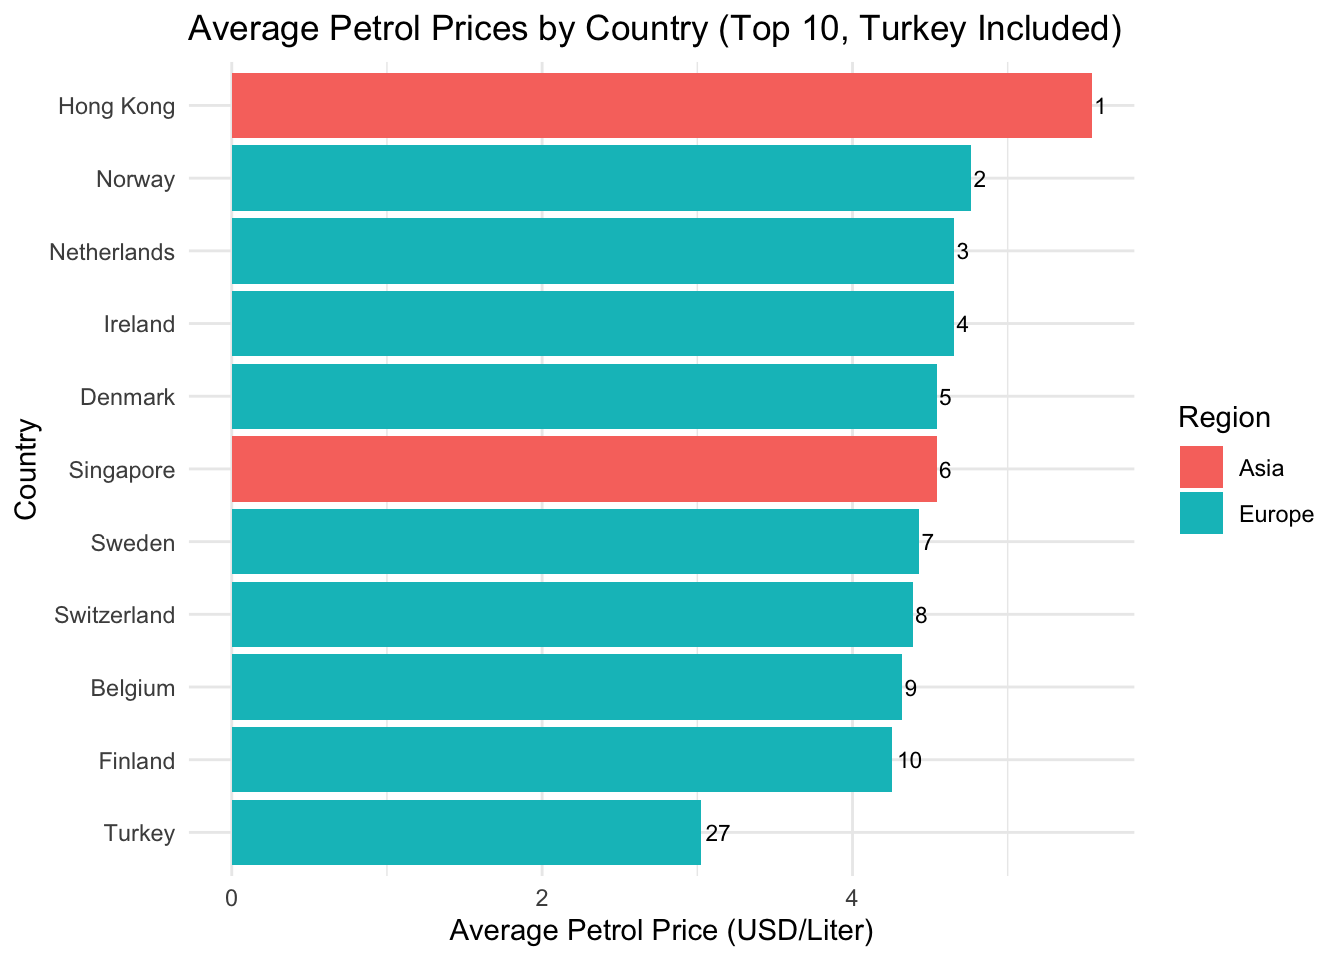
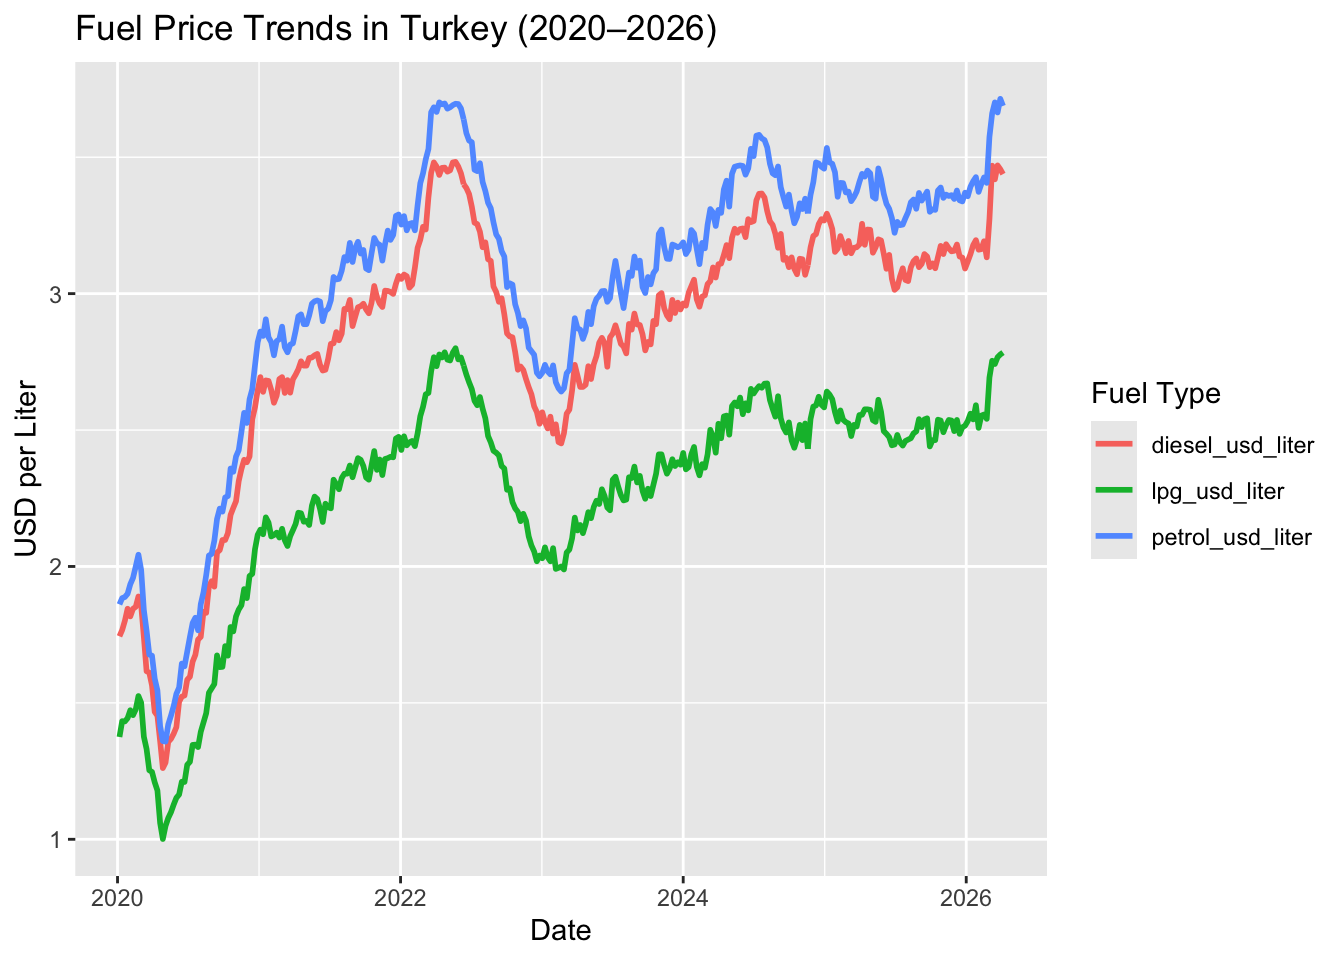
son

diff --git a/docs/project.html b/docs/project.html
@@ -397,10 +397,11 @@ pre > code.sourceCode > span > a:first-child::before { text-decoration: underlin
 <p>Global Fuel Prices &amp; Economic Indicators (2020-2026)&nbsp;</p>
 <p>The global energy landscape has faced significant volatility between 2020 and 2026. This dataset provides a standardized, weekly record of retail fuel prices across 84 countries, aligned with global crude oil benchmarks and national fiscal indicators. It serves as a unified resource for analyzing the relationship between international commodity markets and local retail costs.</p>
 <div class="cell">
-<div class="code-copy-outer-scaffold"><div class="sourceCode cell-code" id="cb1"><pre class="sourceCode r code-with-copy"><code class="sourceCode r"><span id="cb1-1"><a href="#cb1-1" aria-hidden="true" tabindex="-1"></a>global_fuel_prices<span class="ot">&lt;-</span><span class="fu">read.csv</span>(<span class="st">"/Users/seymasezer/Desktop/emu660-spring2026-seymasezery/global_fuel_prices_2020_2026.csv"</span>)</span></code></pre></div><button title="Copy to Clipboard" class="code-copy-button"><i class="bi"></i></button></div>
-</div>
-<div class="cell">
-<div class="code-copy-outer-scaffold"><div class="sourceCode cell-code" id="cb2"><pre class="sourceCode r code-with-copy"><code class="sourceCode r"><span id="cb2-1"><a href="#cb2-1" aria-hidden="true" tabindex="-1"></a><span class="fu">head</span>(global_fuel_prices)</span></code></pre></div><button title="Copy to Clipboard" class="code-copy-button"><i class="bi"></i></button></div>
+<details class="code-fold">
+<summary>Show Code</summary>
+<div class="code-copy-outer-scaffold"><div class="sourceCode cell-code" id="cb1"><pre class="sourceCode r code-with-copy"><code class="sourceCode r"><span id="cb1-1"><a href="#cb1-1" aria-hidden="true" tabindex="-1"></a>global_fuel_prices<span class="ot">&lt;-</span><span class="fu">read.csv</span>(<span class="st">"/Users/seymasezer/Desktop/emu660-spring2026-seymasezery/global_fuel_prices_2020_2026.csv"</span>)</span>
+<span id="cb1-2"><a href="#cb1-2" aria-hidden="true" tabindex="-1"></a><span class="fu">head</span>(global_fuel_prices)</span></code></pre></div><button title="Copy to Clipboard" class="code-copy-button"><i class="bi"></i></button></div>
+</details>
 <div class="cell-output cell-output-stdout">
 <pre><code>        date       country        region income_level subsidy_level
 1 2020-01-06 United States North America         High           Low
@@ -432,10 +433,10 @@ pre > code.sourceCode > span > a:first-child::before { text-decoration: underlin
 <section id="general-information-about-data" class="level2">
 <h2 class="anchored" data-anchor-id="general-information-about-data">2.2 General Information About Data</h2>
 <p>This dataset contains 27468 observations tracking the prices of Petrol, Diesel, and LPG. Each entry is enriched with regional, economic, and policy-level metadata to provide a holistic view of the global fuel economy.</p>
-<p>**Temporal Coverage:** Weekly data from January 2020 to April 2026.&nbsp;</p>
-<p>**Global Scale:** 84 countries across 7 geographic regions.</p>
-<p>**Economic Context:** Integrated Brent Crude benchmarks, tax percentages, and subsidy levels.&nbsp;</p>
-<p>**Normalization:** All pricing data is standardized to USD per Liter.</p>
+<p><strong>Temporal Coverage:</strong> Weekly data from January 2020 to April 2026.&nbsp;</p>
+<p><strong>Global Scale:</strong> 84 countries across 7 geographic regions.</p>
+<p>E<strong>conomic Context:</strong> Integrated Brent Crude benchmarks, tax percentages, and subsidy levels.&nbsp;</p>
+<p><strong>Normalization:</strong> All pricing data is standardized to USD per Liter.</p>
 </section>
 <section id="reason-of-choice" class="level2">
 <h2 class="anchored" data-anchor-id="reason-of-choice">2.3 Reason of Choice</h2>
@@ -448,11 +449,13 @@ pre > code.sourceCode > span > a:first-child::before { text-decoration: underlin
 </section>
 <section id="analysis" class="level1">
 <h1>3. Analysis</h1>
-<p>xxxxxx</p>
 <section id="exploratory-data-analysis" class="level2">
 <h2 class="anchored" data-anchor-id="exploratory-data-analysis">3.1 Exploratory Data Analysis</h2>
 <div class="cell">
-<div class="code-copy-outer-scaffold"><div class="sourceCode cell-code" id="cb4"><pre class="sourceCode r code-with-copy"><code class="sourceCode r"><span id="cb4-1"><a href="#cb4-1" aria-hidden="true" tabindex="-1"></a><span class="fu">library</span>(tidyverse)</span></code></pre></div><button title="Copy to Clipboard" class="code-copy-button"><i class="bi"></i></button></div>
+<details class="code-fold">
+<summary>Show Code</summary>
+<div class="code-copy-outer-scaffold"><div class="sourceCode cell-code" id="cb3"><pre class="sourceCode r code-with-copy"><code class="sourceCode r"><span id="cb3-1"><a href="#cb3-1" aria-hidden="true" tabindex="-1"></a><span class="fu">library</span>(tidyverse)</span></code></pre></div><button title="Copy to Clipboard" class="code-copy-button"><i class="bi"></i></button></div>
+</details>
 <div class="cell-output cell-output-stderr">
 <pre><code>── Attaching core tidyverse packages ──────────────────────── tidyverse 2.0.0 ──
 ✔ dplyr     1.2.1     ✔ readr     2.2.0
@@ -465,34 +468,37 @@ pre > code.sourceCode > span > a:first-child::before { text-decoration: underlin
 ✖ dplyr::lag()    masks stats::lag()
 ℹ Use the conflicted package (&lt;http://conflicted.r-lib.org/&gt;) to force all conflicts to become errors</code></pre>
 </div>
-<div class="code-copy-outer-scaffold"><div class="sourceCode cell-code" id="cb6"><pre class="sourceCode r code-with-copy"><code class="sourceCode r"><span id="cb6-1"><a href="#cb6-1" aria-hidden="true" tabindex="-1"></a><span class="fu">library</span>(dplyr)</span>
-<span id="cb6-2"><a href="#cb6-2" aria-hidden="true" tabindex="-1"></a><span class="fu">library</span>(ggplot2)</span>
-<span id="cb6-3"><a href="#cb6-3" aria-hidden="true" tabindex="-1"></a>df_rank <span class="ot">&lt;-</span> global_fuel_prices <span class="sc">|&gt;</span></span>
-<span id="cb6-4"><a href="#cb6-4" aria-hidden="true" tabindex="-1"></a><span class="fu">group_by</span>(country, region) <span class="sc">|&gt;</span></span>
-<span id="cb6-5"><a href="#cb6-5" aria-hidden="true" tabindex="-1"></a><span class="fu">summarise</span>(<span class="at">avg_petrol =</span> <span class="fu">mean</span>(petrol_usd_liter, <span class="at">na.rm =</span> <span class="cn">TRUE</span>),</span>
-<span id="cb6-6"><a href="#cb6-6" aria-hidden="true" tabindex="-1"></a><span class="at">.groups =</span> <span class="st">"drop"</span>) <span class="sc">|&gt;</span></span>
-<span id="cb6-7"><a href="#cb6-7" aria-hidden="true" tabindex="-1"></a><span class="fu">arrange</span>(<span class="fu">desc</span>(avg_petrol)) <span class="sc">|&gt;</span></span>
-<span id="cb6-8"><a href="#cb6-8" aria-hidden="true" tabindex="-1"></a><span class="fu">mutate</span>(<span class="at">rank =</span> <span class="fu">row_number</span>())</span>
-<span id="cb6-9"><a href="#cb6-9" aria-hidden="true" tabindex="-1"></a>top10_plus_tr <span class="ot">&lt;-</span> df_rank <span class="sc">|&gt;</span></span>
-<span id="cb6-10"><a href="#cb6-10" aria-hidden="true" tabindex="-1"></a><span class="fu">filter</span>(rank <span class="sc">&lt;=</span> <span class="dv">10</span> <span class="sc">|</span> country <span class="sc">==</span> <span class="st">"Turkey"</span>)</span>
-<span id="cb6-11"><a href="#cb6-11" aria-hidden="true" tabindex="-1"></a><span class="fu">ggplot</span>(top10_plus_tr,</span>
-<span id="cb6-12"><a href="#cb6-12" aria-hidden="true" tabindex="-1"></a><span class="fu">aes</span>(<span class="at">x =</span> <span class="fu">reorder</span>(country, avg_petrol),</span>
-<span id="cb6-13"><a href="#cb6-13" aria-hidden="true" tabindex="-1"></a><span class="at">y =</span> avg_petrol,</span>
-<span id="cb6-14"><a href="#cb6-14" aria-hidden="true" tabindex="-1"></a><span class="at">fill =</span> region)) <span class="sc">+</span></span>
-<span id="cb6-15"><a href="#cb6-15" aria-hidden="true" tabindex="-1"></a><span class="fu">geom_col</span>() <span class="sc">+</span></span>
-<span id="cb6-16"><a href="#cb6-16" aria-hidden="true" tabindex="-1"></a><span class="fu">coord_flip</span>() <span class="sc">+</span></span>
-<span id="cb6-17"><a href="#cb6-17" aria-hidden="true" tabindex="-1"></a><span class="fu">geom_text</span>(<span class="fu">aes</span>(<span class="at">label =</span> rank),</span>
-<span id="cb6-18"><a href="#cb6-18" aria-hidden="true" tabindex="-1"></a><span class="at">hjust =</span> <span class="sc">-</span><span class="fl">0.2</span>,</span>
-<span id="cb6-19"><a href="#cb6-19" aria-hidden="true" tabindex="-1"></a><span class="at">size =</span> <span class="dv">3</span>) <span class="sc">+</span></span>
-<span id="cb6-20"><a href="#cb6-20" aria-hidden="true" tabindex="-1"></a><span class="fu">labs</span>(<span class="at">title =</span> <span class="st">"Average Petrol Prices by Country (Top 10, Turkey Included)"</span>,</span>
-<span id="cb6-21"><a href="#cb6-21" aria-hidden="true" tabindex="-1"></a><span class="at">x =</span> <span class="st">"Country"</span>,</span>
-<span id="cb6-22"><a href="#cb6-22" aria-hidden="true" tabindex="-1"></a><span class="at">y =</span> <span class="st">"Average Petrol Price (USD/Liter)"</span>,</span>
-<span id="cb6-23"><a href="#cb6-23" aria-hidden="true" tabindex="-1"></a><span class="at">fill =</span> <span class="st">"Region"</span>) <span class="sc">+</span></span>
-<span id="cb6-24"><a href="#cb6-24" aria-hidden="true" tabindex="-1"></a><span class="fu">theme_minimal</span>()</span></code></pre></div><button title="Copy to Clipboard" class="code-copy-button"><i class="bi"></i></button></div>
+<details class="code-fold">
+<summary>Show Code</summary>
+<div class="code-copy-outer-scaffold"><div class="sourceCode cell-code" id="cb5"><pre class="sourceCode r code-with-copy"><code class="sourceCode r"><span id="cb5-1"><a href="#cb5-1" aria-hidden="true" tabindex="-1"></a><span class="fu">library</span>(dplyr)</span>
+<span id="cb5-2"><a href="#cb5-2" aria-hidden="true" tabindex="-1"></a><span class="fu">library</span>(ggplot2)</span>
+<span id="cb5-3"><a href="#cb5-3" aria-hidden="true" tabindex="-1"></a>df_rank <span class="ot">&lt;-</span> global_fuel_prices <span class="sc">|&gt;</span></span>
+<span id="cb5-4"><a href="#cb5-4" aria-hidden="true" tabindex="-1"></a><span class="fu">group_by</span>(country, region) <span class="sc">|&gt;</span></span>
+<span id="cb5-5"><a href="#cb5-5" aria-hidden="true" tabindex="-1"></a><span class="fu">summarise</span>(<span class="at">avg_petrol =</span> <span class="fu">mean</span>(petrol_usd_liter, <span class="at">na.rm =</span> <span class="cn">TRUE</span>),</span>
+<span id="cb5-6"><a href="#cb5-6" aria-hidden="true" tabindex="-1"></a><span class="at">.groups =</span> <span class="st">"drop"</span>) <span class="sc">|&gt;</span></span>
+<span id="cb5-7"><a href="#cb5-7" aria-hidden="true" tabindex="-1"></a><span class="fu">arrange</span>(<span class="fu">desc</span>(avg_petrol)) <span class="sc">|&gt;</span></span>
+<span id="cb5-8"><a href="#cb5-8" aria-hidden="true" tabindex="-1"></a><span class="fu">mutate</span>(<span class="at">rank =</span> <span class="fu">row_number</span>())</span>
+<span id="cb5-9"><a href="#cb5-9" aria-hidden="true" tabindex="-1"></a>top10_plus_tr <span class="ot">&lt;-</span> df_rank <span class="sc">|&gt;</span></span>
+<span id="cb5-10"><a href="#cb5-10" aria-hidden="true" tabindex="-1"></a><span class="fu">filter</span>(rank <span class="sc">&lt;=</span> <span class="dv">10</span> <span class="sc">|</span> country <span class="sc">==</span> <span class="st">"Turkey"</span>)</span>
+<span id="cb5-11"><a href="#cb5-11" aria-hidden="true" tabindex="-1"></a><span class="fu">ggplot</span>(top10_plus_tr,</span>
+<span id="cb5-12"><a href="#cb5-12" aria-hidden="true" tabindex="-1"></a><span class="fu">aes</span>(<span class="at">x =</span> <span class="fu">reorder</span>(country, avg_petrol),</span>
+<span id="cb5-13"><a href="#cb5-13" aria-hidden="true" tabindex="-1"></a><span class="at">y =</span> avg_petrol,</span>
+<span id="cb5-14"><a href="#cb5-14" aria-hidden="true" tabindex="-1"></a><span class="at">fill =</span> region)) <span class="sc">+</span></span>
+<span id="cb5-15"><a href="#cb5-15" aria-hidden="true" tabindex="-1"></a><span class="fu">geom_col</span>() <span class="sc">+</span></span>
+<span id="cb5-16"><a href="#cb5-16" aria-hidden="true" tabindex="-1"></a><span class="fu">coord_flip</span>() <span class="sc">+</span></span>
+<span id="cb5-17"><a href="#cb5-17" aria-hidden="true" tabindex="-1"></a><span class="fu">geom_text</span>(<span class="fu">aes</span>(<span class="at">label =</span> rank),</span>
+<span id="cb5-18"><a href="#cb5-18" aria-hidden="true" tabindex="-1"></a><span class="at">hjust =</span> <span class="sc">-</span><span class="fl">0.2</span>,</span>
+<span id="cb5-19"><a href="#cb5-19" aria-hidden="true" tabindex="-1"></a><span class="at">size =</span> <span class="dv">3</span>) <span class="sc">+</span></span>
+<span id="cb5-20"><a href="#cb5-20" aria-hidden="true" tabindex="-1"></a><span class="fu">labs</span>(<span class="at">title =</span> <span class="st">"Average Petrol Prices by Country (Top 10, Turkey Included)"</span>,</span>
+<span id="cb5-21"><a href="#cb5-21" aria-hidden="true" tabindex="-1"></a><span class="at">x =</span> <span class="st">"Country"</span>,</span>
+<span id="cb5-22"><a href="#cb5-22" aria-hidden="true" tabindex="-1"></a><span class="at">y =</span> <span class="st">"Average Petrol Price (USD/Liter)"</span>,</span>
+<span id="cb5-23"><a href="#cb5-23" aria-hidden="true" tabindex="-1"></a><span class="at">fill =</span> <span class="st">"Region"</span>) <span class="sc">+</span></span>
+<span id="cb5-24"><a href="#cb5-24" aria-hidden="true" tabindex="-1"></a><span class="fu">theme_minimal</span>()</span></code></pre></div><button title="Copy to Clipboard" class="code-copy-button"><i class="bi"></i></button></div>
+</details>
 <div class="cell-output-display">
 <div>
 <figure class="figure">
-<p><img src="project_files/figure-html/unnamed-chunk-3-1.png" class="img-fluid figure-img" width="672"></p>
+<p><img src="project_files/figure-html/unnamed-chunk-2-1.png" class="img-fluid figure-img" width="672"></p>
 </figure>
 </div>
 </div>
@@ -501,29 +507,72 @@ pre > code.sourceCode > span > a:first-child::before { text-decoration: underlin
 <section id="trend-analysis" class="level2">
 <h2 class="anchored" data-anchor-id="trend-analysis">3.2 Trend Analysis</h2>
 <div class="cell">
-<div class="code-copy-outer-scaffold"><div class="sourceCode cell-code" id="cb7"><pre class="sourceCode r code-with-copy"><code class="sourceCode r"><span id="cb7-1"><a href="#cb7-1" aria-hidden="true" tabindex="-1"></a>global_fuel_prices <span class="sc">|&gt;</span></span>
-<span id="cb7-2"><a href="#cb7-2" aria-hidden="true" tabindex="-1"></a>  <span class="fu">filter</span>(country <span class="sc">==</span> <span class="st">"Turkey"</span>) <span class="sc">|&gt;</span></span>
-<span id="cb7-3"><a href="#cb7-3" aria-hidden="true" tabindex="-1"></a>  <span class="fu">mutate</span>(<span class="at">date =</span> <span class="fu">as.Date</span>(date)) <span class="sc">|&gt;</span></span>
-<span id="cb7-4"><a href="#cb7-4" aria-hidden="true" tabindex="-1"></a>  <span class="fu">arrange</span>(date) <span class="sc">|&gt;</span></span>
-<span id="cb7-5"><a href="#cb7-5" aria-hidden="true" tabindex="-1"></a>  <span class="fu">pivot_longer</span>(<span class="at">cols =</span> <span class="fu">c</span>(petrol_usd_liter, diesel_usd_liter, lpg_usd_liter),</span>
-<span id="cb7-6"><a href="#cb7-6" aria-hidden="true" tabindex="-1"></a>               <span class="at">names_to =</span> <span class="st">"fuel_type"</span>,</span>
-<span id="cb7-7"><a href="#cb7-7" aria-hidden="true" tabindex="-1"></a>               <span class="at">values_to =</span> <span class="st">"price"</span>) <span class="sc">|&gt;</span></span>
-<span id="cb7-8"><a href="#cb7-8" aria-hidden="true" tabindex="-1"></a>  <span class="fu">ggplot</span>(<span class="fu">aes</span>(<span class="at">x =</span> date, <span class="at">y =</span> price, <span class="at">color =</span> fuel_type, <span class="at">group =</span> fuel_type)) <span class="sc">+</span></span>
-<span id="cb7-9"><a href="#cb7-9" aria-hidden="true" tabindex="-1"></a>  <span class="fu">geom_line</span>(<span class="at">linewidth =</span> <span class="dv">1</span>) <span class="sc">+</span></span>
-<span id="cb7-10"><a href="#cb7-10" aria-hidden="true" tabindex="-1"></a>  <span class="fu">labs</span>(<span class="at">title =</span> <span class="st">"Fuel Price Trends in Turkey (2020–2026)"</span>,</span>
-<span id="cb7-11"><a href="#cb7-11" aria-hidden="true" tabindex="-1"></a>       <span class="at">x =</span> <span class="st">"Date"</span>,</span>
-<span id="cb7-12"><a href="#cb7-12" aria-hidden="true" tabindex="-1"></a>       <span class="at">y =</span> <span class="st">"USD per Liter"</span>,</span>
-<span id="cb7-13"><a href="#cb7-13" aria-hidden="true" tabindex="-1"></a>       <span class="at">color =</span> <span class="st">"Fuel Type"</span>)</span></code></pre></div><button title="Copy to Clipboard" class="code-copy-button"><i class="bi"></i></button></div>
+<details class="code-fold">
+<summary>Show Code</summary>
+<div class="code-copy-outer-scaffold"><div class="sourceCode cell-code" id="cb6"><pre class="sourceCode r code-with-copy"><code class="sourceCode r"><span id="cb6-1"><a href="#cb6-1" aria-hidden="true" tabindex="-1"></a>global_fuel_prices <span class="sc">|&gt;</span></span>
+<span id="cb6-2"><a href="#cb6-2" aria-hidden="true" tabindex="-1"></a>  <span class="fu">filter</span>(country <span class="sc">==</span> <span class="st">"Turkey"</span>) <span class="sc">|&gt;</span></span>
+<span id="cb6-3"><a href="#cb6-3" aria-hidden="true" tabindex="-1"></a>  <span class="fu">mutate</span>(<span class="at">date =</span> <span class="fu">as.Date</span>(date)) <span class="sc">|&gt;</span></span>
+<span id="cb6-4"><a href="#cb6-4" aria-hidden="true" tabindex="-1"></a>  <span class="fu">arrange</span>(date) <span class="sc">|&gt;</span></span>
+<span id="cb6-5"><a href="#cb6-5" aria-hidden="true" tabindex="-1"></a>  <span class="fu">pivot_longer</span>(<span class="at">cols =</span> <span class="fu">c</span>(petrol_usd_liter, diesel_usd_liter, lpg_usd_liter),</span>
+<span id="cb6-6"><a href="#cb6-6" aria-hidden="true" tabindex="-1"></a>               <span class="at">names_to =</span> <span class="st">"fuel_type"</span>,</span>
+<span id="cb6-7"><a href="#cb6-7" aria-hidden="true" tabindex="-1"></a>               <span class="at">values_to =</span> <span class="st">"price"</span>) <span class="sc">|&gt;</span></span>
+<span id="cb6-8"><a href="#cb6-8" aria-hidden="true" tabindex="-1"></a>  <span class="fu">ggplot</span>(<span class="fu">aes</span>(<span class="at">x =</span> date, <span class="at">y =</span> price, <span class="at">color =</span> fuel_type, <span class="at">group =</span> fuel_type)) <span class="sc">+</span></span>
+<span id="cb6-9"><a href="#cb6-9" aria-hidden="true" tabindex="-1"></a>  <span class="fu">geom_line</span>(<span class="at">linewidth =</span> <span class="dv">1</span>) <span class="sc">+</span></span>
+<span id="cb6-10"><a href="#cb6-10" aria-hidden="true" tabindex="-1"></a>  <span class="fu">labs</span>(<span class="at">title =</span> <span class="st">"Fuel Price Trends in Turkey (2020–2026)"</span>,</span>
+<span id="cb6-11"><a href="#cb6-11" aria-hidden="true" tabindex="-1"></a>       <span class="at">x =</span> <span class="st">"Date"</span>,</span>
+<span id="cb6-12"><a href="#cb6-12" aria-hidden="true" tabindex="-1"></a>       <span class="at">y =</span> <span class="st">"USD per Liter"</span>,</span>
+<span id="cb6-13"><a href="#cb6-13" aria-hidden="true" tabindex="-1"></a>       <span class="at">color =</span> <span class="st">"Fuel Type"</span>)</span></code></pre></div><button title="Copy to Clipboard" class="code-copy-button"><i class="bi"></i></button></div>
+</details>
 <div class="cell-output-display">
 <div>
 <figure class="figure">
-<p><img src="project_files/figure-html/unnamed-chunk-4-1.png" class="img-fluid figure-img" width="672"></p>
+<p><img src="project_files/figure-html/unnamed-chunk-3-1.png" class="img-fluid figure-img" width="672"></p>
 </figure>
 </div>
 </div>
 </div>
 <p>The sharp price increase observed in the chart in 2022 can be attributed to the tightening of global energy supplies following the Russia-Ukraine war. Similarly, the resurgence in prices seen at the end of 2025 and the beginning of 2026 can be attributed to the reflection of new geopolitical risks and supply uncertainties in the market. This situation demonstrates that fuel prices are highly sensitive not only to economic factors but also to geopolitical ones.</p>
 <div class="cell">
+<details class="code-fold">
+<summary>Show Code</summary>
+<div class="code-copy-outer-scaffold"><div class="sourceCode cell-code" id="cb7"><pre class="sourceCode r code-with-copy"><code class="sourceCode r"><span id="cb7-1"><a href="#cb7-1" aria-hidden="true" tabindex="-1"></a>df <span class="ot">&lt;-</span> global_fuel_prices <span class="sc">|&gt;</span></span>
+<span id="cb7-2"><a href="#cb7-2" aria-hidden="true" tabindex="-1"></a>  <span class="fu">mutate</span>(<span class="at">date =</span> <span class="fu">as.Date</span>(date))</span>
+<span id="cb7-3"><a href="#cb7-3" aria-hidden="true" tabindex="-1"></a></span>
+<span id="cb7-4"><a href="#cb7-4" aria-hidden="true" tabindex="-1"></a>df_long <span class="ot">&lt;-</span> df <span class="sc">|&gt;</span></span>
+<span id="cb7-5"><a href="#cb7-5" aria-hidden="true" tabindex="-1"></a>  <span class="fu">pivot_longer</span>(</span>
+<span id="cb7-6"><a href="#cb7-6" aria-hidden="true" tabindex="-1"></a>    <span class="at">cols =</span> <span class="fu">c</span>(petrol_usd_liter),</span>
+<span id="cb7-7"><a href="#cb7-7" aria-hidden="true" tabindex="-1"></a>    <span class="at">values_to =</span> <span class="st">"price"</span></span>
+<span id="cb7-8"><a href="#cb7-8" aria-hidden="true" tabindex="-1"></a>  )</span>
+<span id="cb7-9"><a href="#cb7-9" aria-hidden="true" tabindex="-1"></a></span>
+<span id="cb7-10"><a href="#cb7-10" aria-hidden="true" tabindex="-1"></a>trend_df <span class="ot">&lt;-</span> df_long <span class="sc">|&gt;</span></span>
+<span id="cb7-11"><a href="#cb7-11" aria-hidden="true" tabindex="-1"></a>  <span class="fu">group_by</span>(date, region) <span class="sc">|&gt;</span></span>
+<span id="cb7-12"><a href="#cb7-12" aria-hidden="true" tabindex="-1"></a>  <span class="fu">summarise</span>(<span class="at">avg_price =</span> <span class="fu">mean</span>(price, <span class="at">na.rm =</span> <span class="cn">TRUE</span>), <span class="at">.groups =</span> <span class="st">"drop"</span>)</span>
+<span id="cb7-13"><a href="#cb7-13" aria-hidden="true" tabindex="-1"></a><span class="co"># =========================</span></span>
+<span id="cb7-14"><a href="#cb7-14" aria-hidden="true" tabindex="-1"></a><span class="co"># 1. REGION PLOT</span></span>
+<span id="cb7-15"><a href="#cb7-15" aria-hidden="true" tabindex="-1"></a><span class="co"># =========================</span></span>
+<span id="cb7-16"><a href="#cb7-16" aria-hidden="true" tabindex="-1"></a></span>
+<span id="cb7-17"><a href="#cb7-17" aria-hidden="true" tabindex="-1"></a>p1 <span class="ot">&lt;-</span> <span class="fu">ggplot</span>(trend_df,</span>
+<span id="cb7-18"><a href="#cb7-18" aria-hidden="true" tabindex="-1"></a>             <span class="fu">aes</span>(<span class="at">x =</span> date,</span>
+<span id="cb7-19"><a href="#cb7-19" aria-hidden="true" tabindex="-1"></a>                 <span class="at">y =</span> avg_price,</span>
+<span id="cb7-20"><a href="#cb7-20" aria-hidden="true" tabindex="-1"></a>                 <span class="at">color =</span> region)) <span class="sc">+</span></span>
+<span id="cb7-21"><a href="#cb7-21" aria-hidden="true" tabindex="-1"></a>  <span class="fu">geom_line</span>(<span class="at">linewidth =</span> <span class="dv">1</span>) <span class="sc">+</span></span>
+<span id="cb7-22"><a href="#cb7-22" aria-hidden="true" tabindex="-1"></a>  <span class="fu">facet_wrap</span>(<span class="sc">~</span>region) <span class="sc">+</span></span>
+<span id="cb7-23"><a href="#cb7-23" aria-hidden="true" tabindex="-1"></a>  <span class="fu">labs</span>(<span class="at">title =</span> <span class="st">"Regional Petrol Price Trends (2020–2026)"</span>,</span>
+<span id="cb7-24"><a href="#cb7-24" aria-hidden="true" tabindex="-1"></a>       <span class="at">x =</span> <span class="st">"Date"</span>,</span>
+<span id="cb7-25"><a href="#cb7-25" aria-hidden="true" tabindex="-1"></a>       <span class="at">y =</span> <span class="st">"Average Price"</span>) <span class="sc">+</span></span>
+<span id="cb7-26"><a href="#cb7-26" aria-hidden="true" tabindex="-1"></a>  <span class="fu">theme_minimal</span>()</span>
+<span id="cb7-27"><a href="#cb7-27" aria-hidden="true" tabindex="-1"></a></span>
+<span id="cb7-28"><a href="#cb7-28" aria-hidden="true" tabindex="-1"></a><span class="co"># =========================</span></span>
+<span id="cb7-29"><a href="#cb7-29" aria-hidden="true" tabindex="-1"></a><span class="co"># 2. TURKEY PLOT</span></span>
+<span id="cb7-30"><a href="#cb7-30" aria-hidden="true" tabindex="-1"></a><span class="co"># =========================</span></span>
+<span id="cb7-31"><a href="#cb7-31" aria-hidden="true" tabindex="-1"></a></span>
+<span id="cb7-32"><a href="#cb7-32" aria-hidden="true" tabindex="-1"></a>df_turkey <span class="ot">&lt;-</span> df <span class="sc">|&gt;</span></span>
+<span id="cb7-33"><a href="#cb7-33" aria-hidden="true" tabindex="-1"></a>  <span class="fu">filter</span>(country <span class="sc">==</span> <span class="st">"Turkey"</span>)</span></code></pre></div><button title="Copy to Clipboard" class="code-copy-button"><i class="bi"></i></button></div>
+</details>
+</div>
+<div class="cell">
+<details class="code-fold">
+<summary>Show Code</summary>
 <div class="code-copy-outer-scaffold"><div class="sourceCode cell-code" id="cb8"><pre class="sourceCode r code-with-copy"><code class="sourceCode r"><span id="cb8-1"><a href="#cb8-1" aria-hidden="true" tabindex="-1"></a>df <span class="ot">&lt;-</span> global_fuel_prices <span class="sc">|&gt;</span></span>
 <span id="cb8-2"><a href="#cb8-2" aria-hidden="true" tabindex="-1"></a><span class="fu">mutate</span>(<span class="at">date =</span> <span class="fu">as.Date</span>(date),</span>
 <span id="cb8-3"><a href="#cb8-3" aria-hidden="true" tabindex="-1"></a><span class="at">period =</span> <span class="fu">ifelse</span>(date <span class="sc">&lt;</span> <span class="fu">as.Date</span>(<span class="st">"2022-02-01"</span>), <span class="st">"Pre-War"</span>, <span class="st">"Post-War"</span>))</span>
@@ -546,6 +595,7 @@ pre > code.sourceCode > span > a:first-child::before { text-decoration: underlin
 <span id="cb8-20"><a href="#cb8-20" aria-hidden="true" tabindex="-1"></a><span class="at">y =</span> <span class="st">"Price Impact (Post - Pre)"</span>,</span>
 <span id="cb8-21"><a href="#cb8-21" aria-hidden="true" tabindex="-1"></a><span class="at">fill =</span> <span class="st">"Fuel Type"</span>) <span class="sc">+</span></span>
 <span id="cb8-22"><a href="#cb8-22" aria-hidden="true" tabindex="-1"></a><span class="fu">theme_minimal</span>()</span></code></pre></div><button title="Copy to Clipboard" class="code-copy-button"><i class="bi"></i></button></div>
+</details>
 <div class="cell-output-display">
 <div>
 <figure class="figure">
@@ -557,16 +607,22 @@ pre > code.sourceCode > span > a:first-child::before { text-decoration: underlin
 </section>
 <section id="model-fitting" class="level2">
 <h2 class="anchored" data-anchor-id="model-fitting">3.3 Model Fitting</h2>
-<p>xxxxxx</p>
+<p>If I were to perform model fitting, I would build a regression model to quantitatively measure how petrol, diesel, and LPG prices changed before and after the war periods in 2020–2026. In this model, the war periods (2022 and 2026) would be included as dummy variables to test whether price changes are statistically significant. Additionally, variables such as region and fuel type would be incorporated to compare how different regions and fuel types respond to these shocks. By using interaction terms, I would also examine whether the impact of the war differs across regions. This approach complements visual trend analysis by providing more causal and interpretable insights.</p>
 </section>
 <section id="results" class="level2">
 <h2 class="anchored" data-anchor-id="results">3.4 Results</h2>
-<p>xxxxxx</p>
+<p>The exploratory analysis of global fuel prices between 2020 and 2026 reveals clear temporal and regional heterogeneity. Trend analysis shows that petrol prices exhibit a generally increasing pattern over time, with noticeable structural changes around major geopolitical events, particularly in 2022 and 2026. Regional breakdowns indicate that price trajectories differ significantly across continents, suggesting that fuel markets respond unevenly to global shocks.</p>
+<p>The impact analysis, based on pre- and post-war comparisons, demonstrates that fuel prices increased across almost all regions following the war periods. However, the magnitude of this effect varies by region and fuel type. Petrol generally shows stronger sensitivity to geopolitical shocks compared to LPG, while diesel exhibits intermediate behavior. Turkey appears among the more strongly affected countries in terms of petrol price increases, indicating relatively high exposure to global energy market volatility.</p>
 </section>
 </section>
 <section id="results-and-key-takeaways" class="level1">
 <h1>4. Results and Key Takeaways</h1>
-<p>xxxxxx</p>
+<ul>
+<li><p>Fuel prices show a clear upward trend between 2020 and 2026, with structural breaks around major geopolitical events.</p></li>
+<li><p>The 2022 and 2026 war periods are associated with observable increases in fuel prices across most regions.</p></li>
+<li><p>Petrol prices are more sensitive to geopolitical disruptions compared to LPG and diesel.</p></li>
+<li><p>Turkey is among the relatively more affected countries, showing higher-than-average price increases in the post-war period.</p></li>
+</ul>
 
 
 </section>